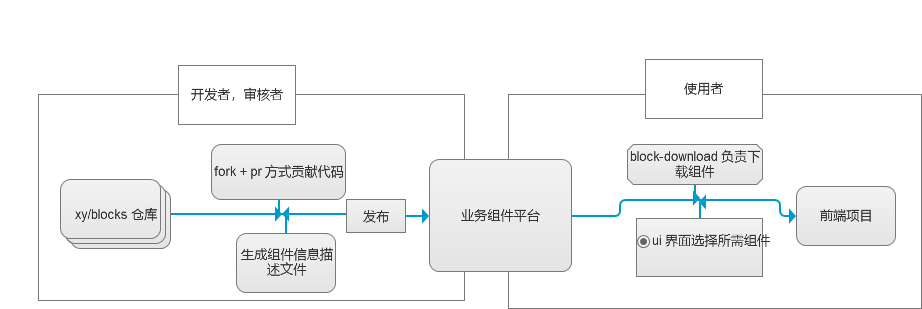
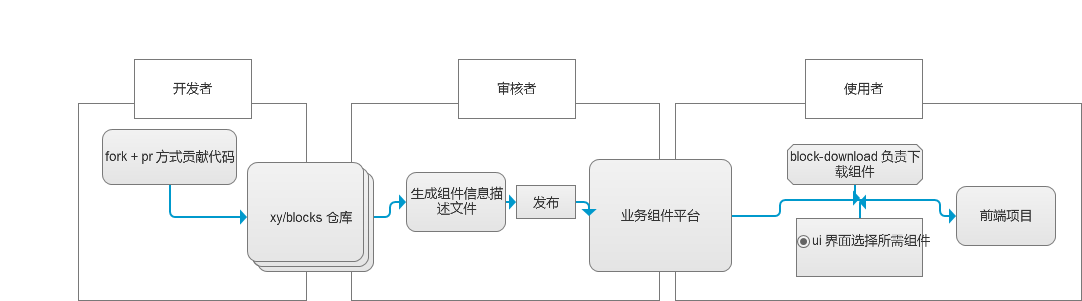
修复了一张图,表格

diff --git a/block 物料平台/block 物料平台产品文档 (一期).md b/block 物料平台/block 物料平台产品文档 (一期).md
@@ -146,7 +146,7 @@ web端在后文会或被简称为 block-display
 | ------------------------------------------- | ------------------------ | ------------------------- | ------------------ |
 | 阿里飞冰                                    | 前端项目生成器           | 可视化的区块展示          | vue 支持不好       |
 | [bit](https://bit.dev/components)           | 组件可视化展示           | 可调式,    可视化组件列表 | 须发npm包          |
-| ant / element    组件库文档                 | 组件库文档               | 网站架构可参考            | 没有可视化组件列表 |
+| ant / element    组件库文档                 | 组件库文档               |             | 没有可视化组件列表 |
 
 
 ### 调研结果
